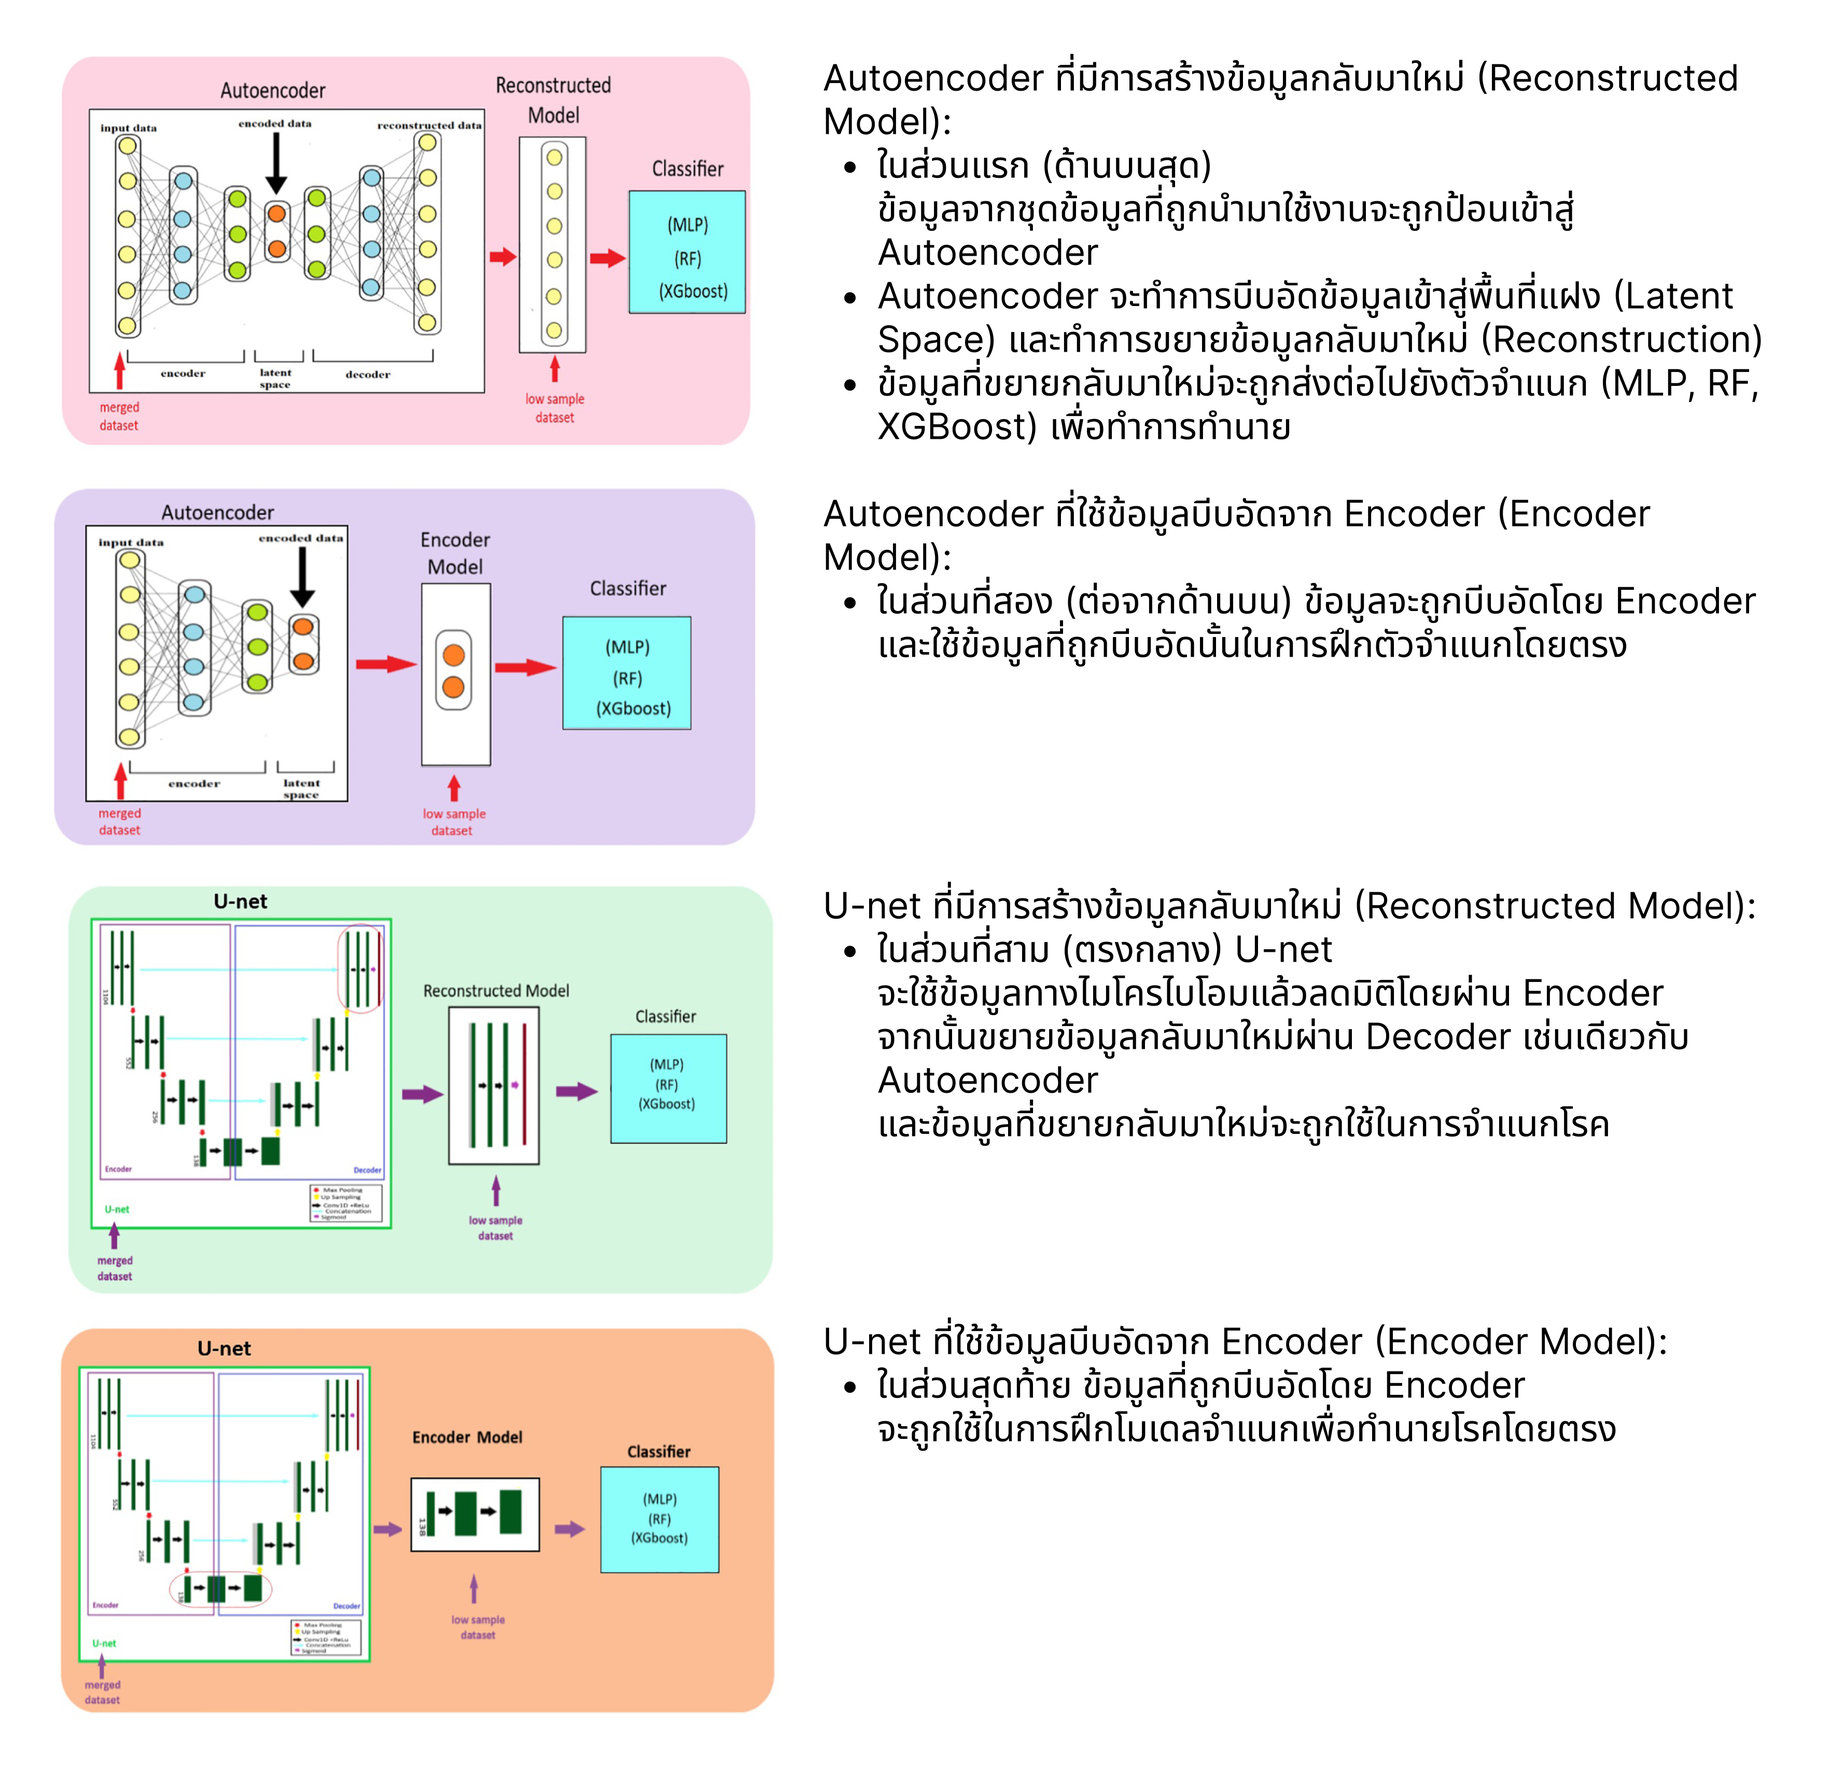
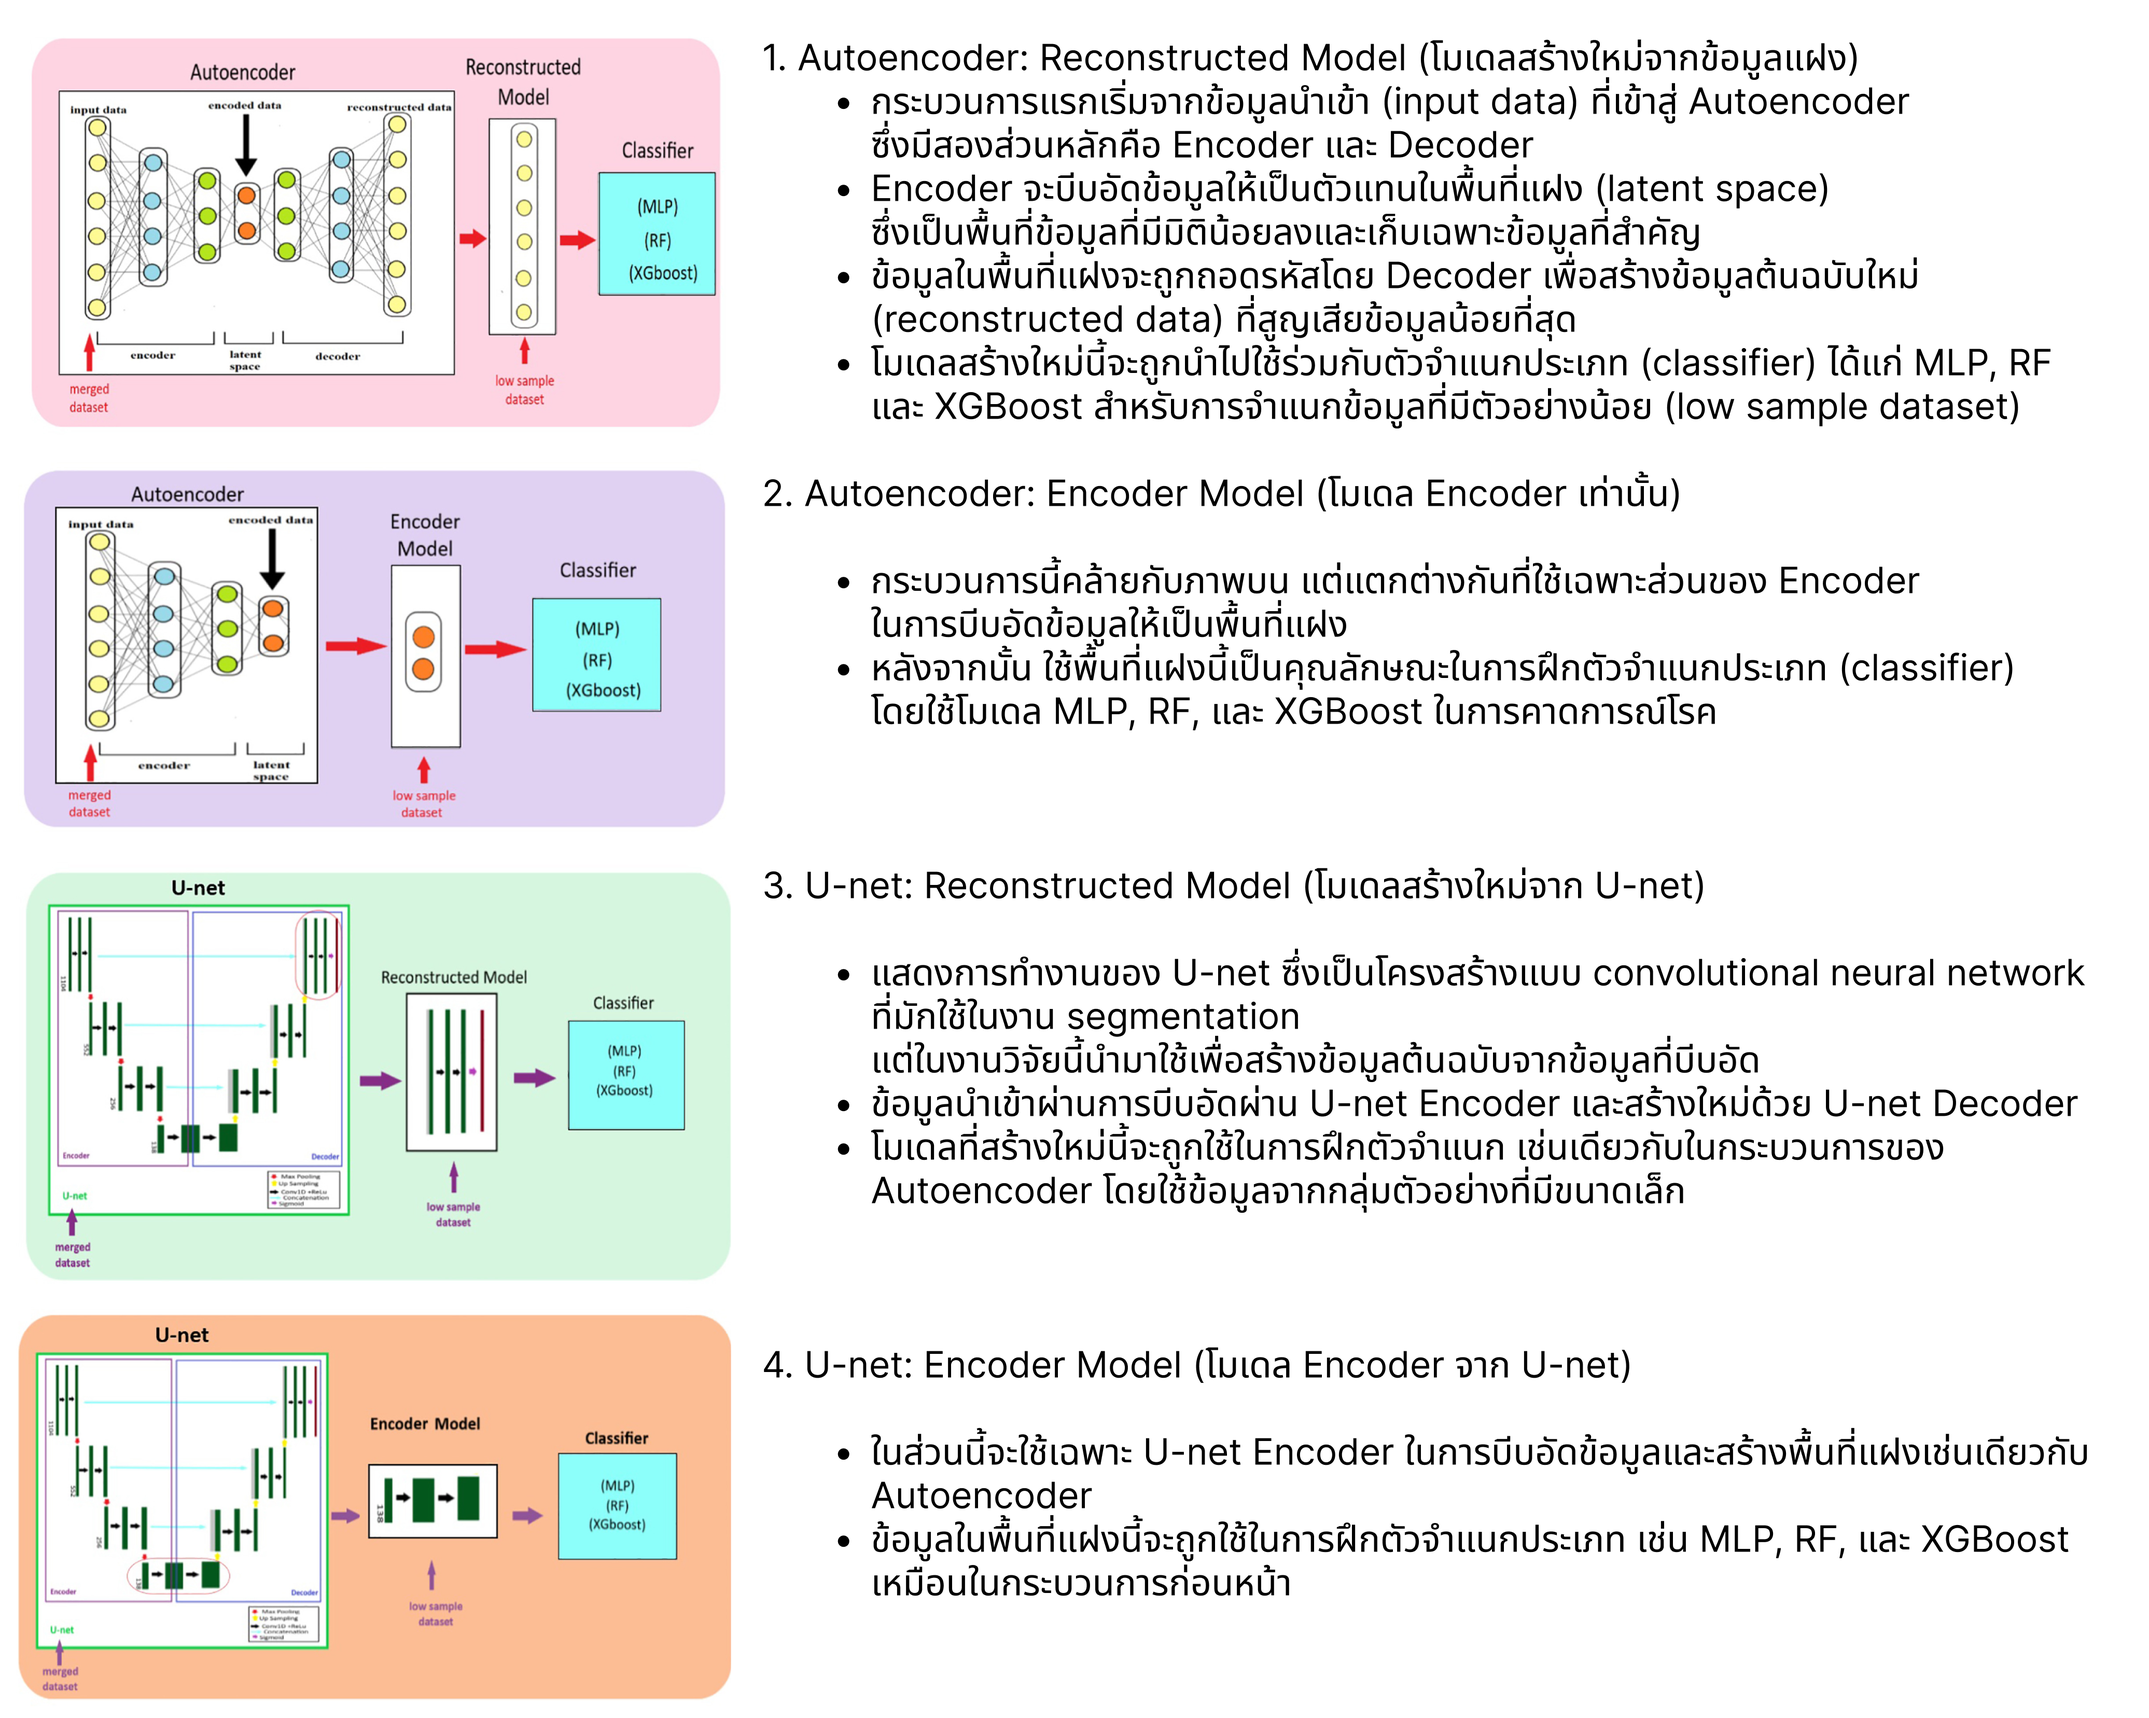
Update deepgum and fig1-2

diff --git a/publish/bio-informatics/deepgum-deep-feature-transfer-for-gut-microbiome-analysis-using-bottleneck-models.md b/publish/bio-informatics/deepgum-deep-feature-transfer-for-gut-microbiome-analysis-using-bottleneck-models.md
@@ -30,7 +30,7 @@ date: 2024-01-31
 
 >5 datasets comprise of [IBD](https://www-sciencedirect-com.chula.idm.oclc.org/topics/medicine-and-dentistry/inflammatory-bowel-disease "Learn more about IBD from ScienceDirect's AI-generated Topic Pages") cohorts and 4 datasets involve [CRC](https://www-sciencedirect-com.chula.idm.oclc.org/topics/pharmacology-toxicology-and-pharmaceutical-science/colorectal-cancer "Learn more about CRC from ScienceDirect's AI-generated Topic Pages") cohorts
 
-ในลำไส้ที่เกี่ยวกับโรคในระบบทางเดินอาหาร ซึ่งประกอบไปด้วยชุดข้อมูลเกี่ยวกับโรคลำไส้อักเสบ (IBD) และมะเร็งลำไส้ใหญ่ (CRC) โดยใช้ **MetaPhlAn 3.0** ในการสกัด taxonomic features จากชุดข้อมูลและรวมเป็นชุดข้อมูลที่มีทั้งหมด 2377 ตัวอย่าง และ 1104 taxonomic features
+ในลำไส้ที่เกี่ยวกับโรคในระบบทางเดินอาหาร ซึ่งประกอบไปด้วยชุดข้อมูลเกี่ยวกับโรคลำไส้อักเสบ (IBD) และมะเร็งลำไส้ใหญ่ (CRC) โดยใช้ **MetaPhlAn 3.0** ในการสกัด taxonomic features จากชุดข้อมูลและรวมเป็นชุดข้อมูลที่มีทั้งหมด 2377 ตัวอย่าง และ 1104 taxonomic features (merged dataset, with 1104 features and 2377 samples, is divided into 20% [test data](https://www-sciencedirect-com.chula.idm.oclc.org/topics/mathematics/test-data "Learn more about test data from ScienceDirect's AI-generated Topic Pages") and 80% training data.)
 
 #### 2. Deep Feature Extraction with Unsupervised Methods
 
@@ -50,9 +50,41 @@ Auto encoder เป็นสถาปัตยกรรมแบบ Neural Netwo
 
 **U-net** เป็นสถาปัตยกรรม Neural Network ที่ออกแบบมาเพื่อการแบ่งส่วนภาพ (Image Segmentation) ในกรณีนี้ U-net ถูกใช้ในการสกัดคุณลักษณะเชิงลึกจากข้อมูลทางไมโครไบโอม โดย U-net จะลดมิติของข้อมูลผ่าน Encoder แล้วขยายกลับมาผ่าน Decoder เช่นเดียวกับ Autoencoder ข้อมูลที่ถูกลดมิติผ่าน U-net สามารถใช้ในการทำนายโรคได้โดยโมเดลจำแนกเช่นเดียวกัน
 
+#### The overview of DeepGum method.
+โครงสร้างและกระบวนการทำงานของโมเดล Autoencoder และ U-net ที่ถูกใช้ในงานวิจัยนี้สำหรับการจำแนกโรคจากข้อมูล mircobiome ซึ่งมีการแบ่งออกเป็น 4 ส่วนหลัก โดยแต่ละส่วนมีรายละเอียดดังนี้
+
 ![[Frame 2.png]]
 
 > The overview of DeepGum method. This approach involves training an autoencoder or a U-net with the merged microbiome dataset. The encoder model or reconstructed model, which emerges through training, reused for datasets with low sample sizes. Then a [classifier model](https://www-sciencedirect-com.chula.idm.oclc.org/topics/mathematics/classifier-model "Learn more about classifier model from ScienceDirect's AI-generated Topic Pages") (MLP, XGB and RF) is utilized to determine whether the samples belong to patients or healthy controls.
+### Layer details of DeepGum.
+
+โดยแต่ละส่วนใน DeepGum แสดงให้เห็นการใช้งานของโครงสร้าง **U-net** และ **Autoencoder** สำหรับการสกัดคุณลักษณะเชิงลึกในข้อมูลไมโครไบโอม โดย **U-net1/4** และ **Autoencoder1/4** มีโครงสร้างครบทั้งการบีบอัดและการสร้างข้อมูลใหม่ ขณะที่ **U-net-encode1/4** และ **Encoder1/4** ใช้เฉพาะการบีบอัดข้อมูลเพื่อเลือกคุณลักษณะที่สำคัญ
+
+![[Pasted image 20240922133557.png]]
+#### 1. U-net1/4 (ส่วนซ้ายสุด)
+
+- เป็นโครงสร้างของ **U-net** ซึ่งประกอบด้วยการบีบอัดข้อมูล (down-sampling) และการสร้างข้อมูลใหม่ (up-sampling)
+- ในส่วนของการบีบอัด ข้อมูลนำเข้าจะถูกส่งผ่านเลเยอร์ **Conv1D** หลายชั้นเพื่อทำการคัดเลือกคุณลักษณะเชิงลึก
+- แต่ละชั้นจะมีการลดขนาดข้อมูลด้วย **MaxPooling1D** เพื่อลดขนาดของข้อมูลที่ผ่านไปแต่ละขั้น
+- หลังจากนั้นจะเข้าสู่กระบวนการสร้างข้อมูลใหม่ (up-sampling) ผ่านเลเยอร์ **UpSampling1D** ที่ขยายขนาดข้อมูลกลับมาในลักษณะเดิม
+- ข้อมูลในชั้นสุดท้ายจะถูกประกอบใหม่ (concatenate) จากหลายช่องทางข้อมูล
+
+#### 2. U-net-encode1/4 (ขวาของ U-net1/4)
+
+- เป็นการใช้โครงสร้างของ **U-net** แต่ทำการบีบอัดข้อมูลเท่านั้นโดยไม่ทำการสร้างใหม่
+- ข้อมูลจะถูกส่งผ่านเลเยอร์ **Conv1D** และ **MaxPooling1D** เหมือนกับโครงสร้าง U-net แต่จบที่การบีบอัดเพื่อนำคุณลักษณะที่ถูกเลือกไปใช้ในการจำแนกโรคในขั้นตอนต่อไป
+
+#### 3. Encoder1/4 (กลางขวา)
+
+- เป็นส่วนของ **Autoencoder** ที่ใช้เพียงโครงสร้างของ **Encoder**
+- ข้อมูลจะถูกบีบอัดผ่านเลเยอร์ **Conv1D** และ **MaxPooling1D** หลายชั้นเพื่อสร้างตัวแทนข้อมูลที่มีขนาดเล็กลง
+- โครงสร้างนี้ช่วยในการลดข้อมูลให้เหลือเฉพาะคุณลักษณะที่สำคัญสำหรับการจำแนกข้อมูล
+
+#### 4. Autoencoder1/4 (ขวาสุด)
+
+- โครงสร้างของ **Autoencoder** ที่ครบถ้วนทั้งการบีบอัดและการสร้างข้อมูลใหม่
+- ข้อมูลจะถูกบีบอัดผ่าน **Conv1D** และ **MaxPooling1D** หลายชั้น จากนั้นขยายขนาดข้อมูลกลับมาด้วย **UpSampling1D**
+- โครงสร้างนี้ใช้ในการสร้างข้อมูลใหม่ที่สูญเสียข้อมูลน้อยที่สุดจากข้อมูลที่ถูกบีบอัด
 
 ---
 ### Results
@@ -70,7 +102,13 @@ Auto encoder เป็นสถาปัตยกรรมแบบ Neural Netwo
     - DeepGum ยังคงแสดงผลลัพธ์ที่เหนือกว่ามากเมื่อใช้ข้อมูลจาก Encoder ของ U-net และ Autoencoder ซึ่งช่วยเพิ่มความแม่นยำในการแยกแยะผู้ป่วยที่มีมะเร็งลำไส้ใหญ่จากกลุ่มตัวอย่างที่ไม่เป็นโรค
     - ทั้งนี้ ชุดข้อมูลที่ถูกลดขนาดลงยังแสดงให้เห็นถึงความสามารถของ DeepGum ในการจัดการกับข้อมูลที่มีจำนวนตัวอย่างน้อยและยังคงให้ผลลัพธ์ที่น่าพึงพอใจ
 
+#### The DeepGum models that exhibit the best performance for each dataset are highlighted in red
 ![[Pasted image 20240921194911.png]]
+> GI diseases prediction performance of DeepGum. For IBD-I, IBD-II, IBD-III, CRC-I, CRC-II and CRC-III datasets, the comparative classification results of RF, XGB, MLP, metaML and DeepMicro models and autoencoder and U-net based DeepGum models are given. Each value represents the average AUC score of five experiments.
+
+#### Autoencoder and U-net models are evaluated for each dataset, and the outcomes are presented in
+![[Pasted image 20240922134950.png]]
+> GI diseases prediction comparative performance scores (AUC) for reconstructed and encoder models of U-net and autoencoder.
 #### 2. กลุ่มตัวอย่างที่ถูกสุ่มลดขนาด (Randomly Downsampled Cohorts)
 
 >DeepGum มีความสามารถในการรักษาประสิทธิภาพได้ดีแม้ในกรณีที่จำนวนตัวอย่างถูกลดลงอย่างมาก ซึ่งเป็นประโยชน์อย่างยิ่งในการวิเคราะห์ข้อมูล microbiome ที่มักประสบปัญหาการขาดแคลนข้อมูลตัวอย่าง ด้วยการใช้ Encoder ของ Autoencoder และ U-net ช่วยในการสร้างตัวแทนข้อมูลที่มีคุณภาพ แม้ข้อมูลต้นฉบับจะถูกลดจำนวนลง
@@ -87,6 +125,9 @@ Auto encoder เป็นสถาปัตยกรรมแบบ Neural Netwo
 
 > **การเปรียบเทียบประสิทธิภาพ**:
     - ผลการทดลองแสดงให้เห็นว่า DeepGum สามารถทำงานได้ดีกว่าโมเดลพื้นฐานอย่างมีนัยสำคัญ โดยเฉพาะอย่างยิ่งในกรณีที่จำนวนตัวอย่างมีน้อย ซึ่งเป็นข้อพิสูจน์ว่าโมเดลนี้สามารถรับมือกับปัญหาการจำแนกข้อมูลที่มีตัวอย่างจำกัดได้ดีกว่าโมเดลที่ไม่ได้ใช้วิธีการบีบอัดข้อมูล
+
+![[Pasted image 20240922133458.png]]
+> For 5, 10, 20, 50 and 100 randomly selected samples from each dataset, the comparative average AUC scores for RF classification and using the RF classifier after training with DeepGum models are given. (small-sample datasets namely IBD-I, IBD-II, IBD-III, CRC-I, CRC-II, and CRC-III.)
 
 ---
 ### Discussion
